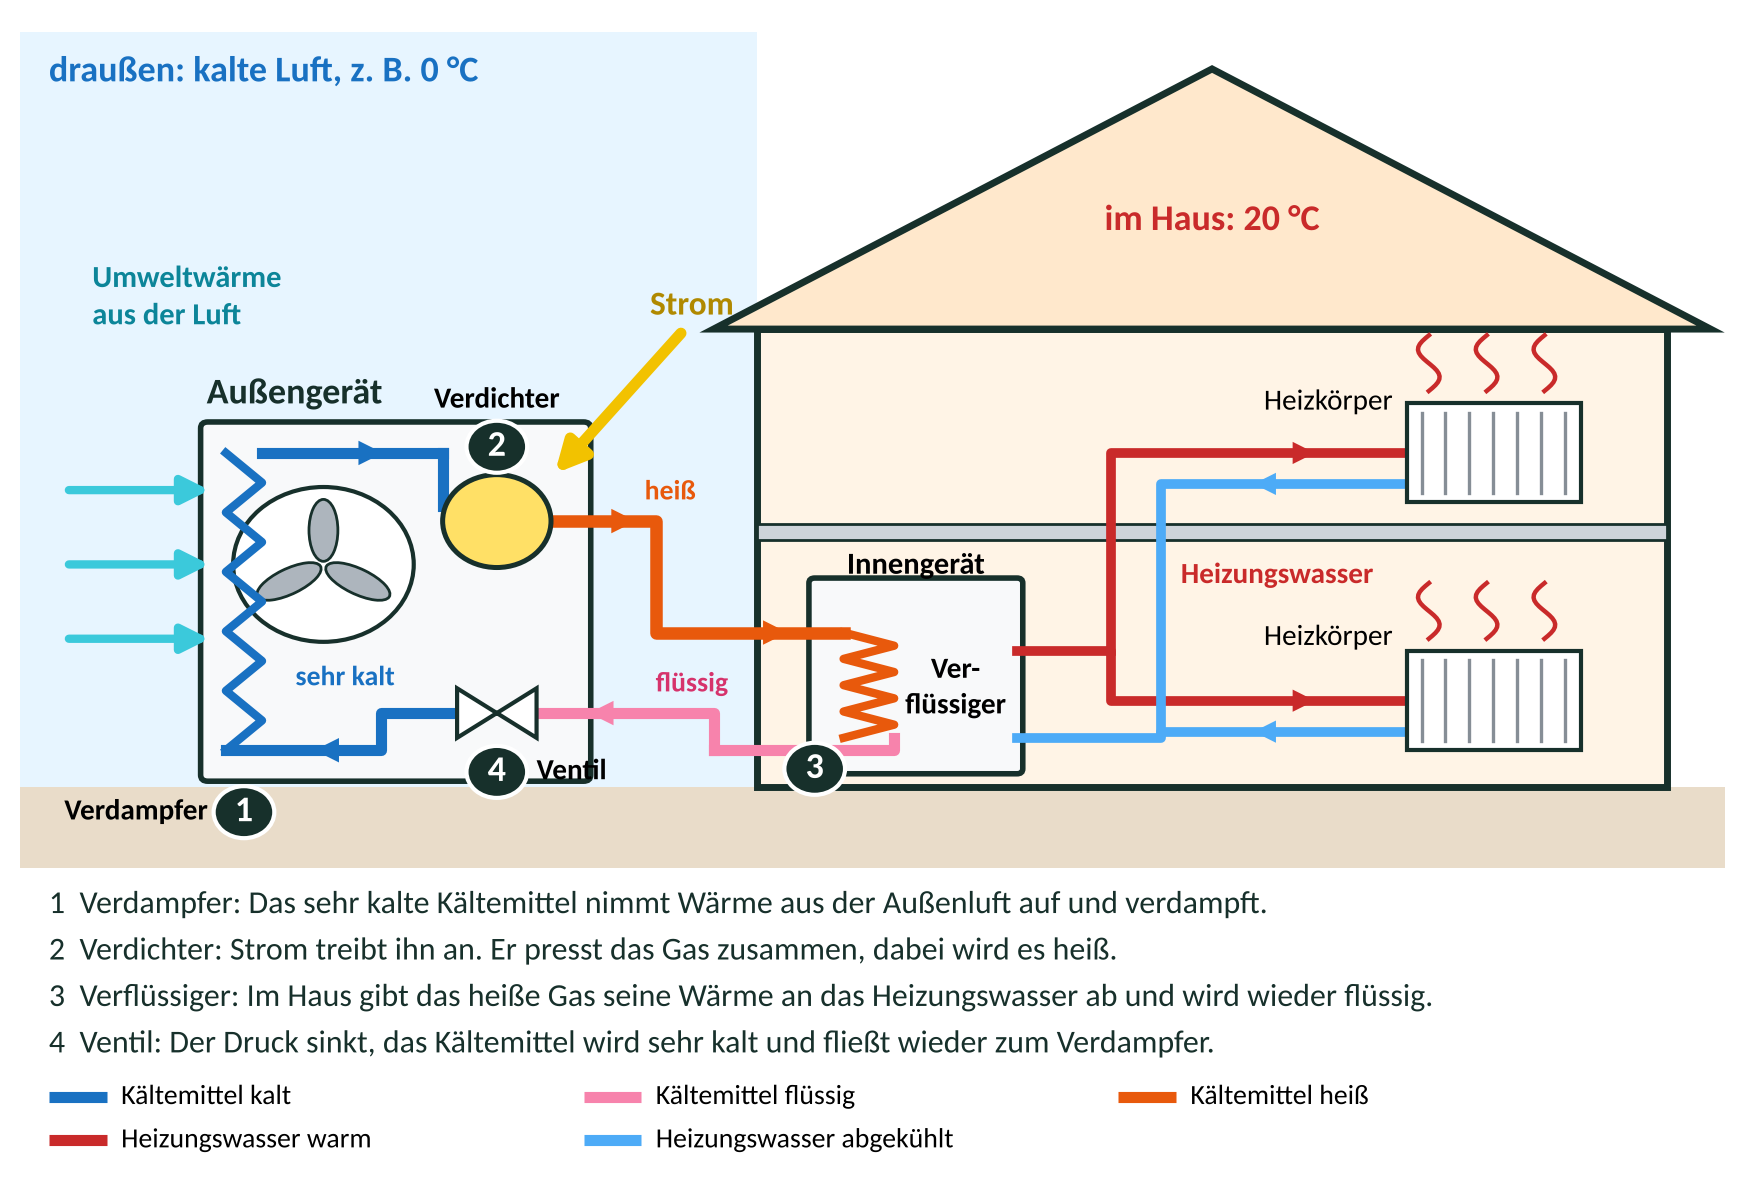
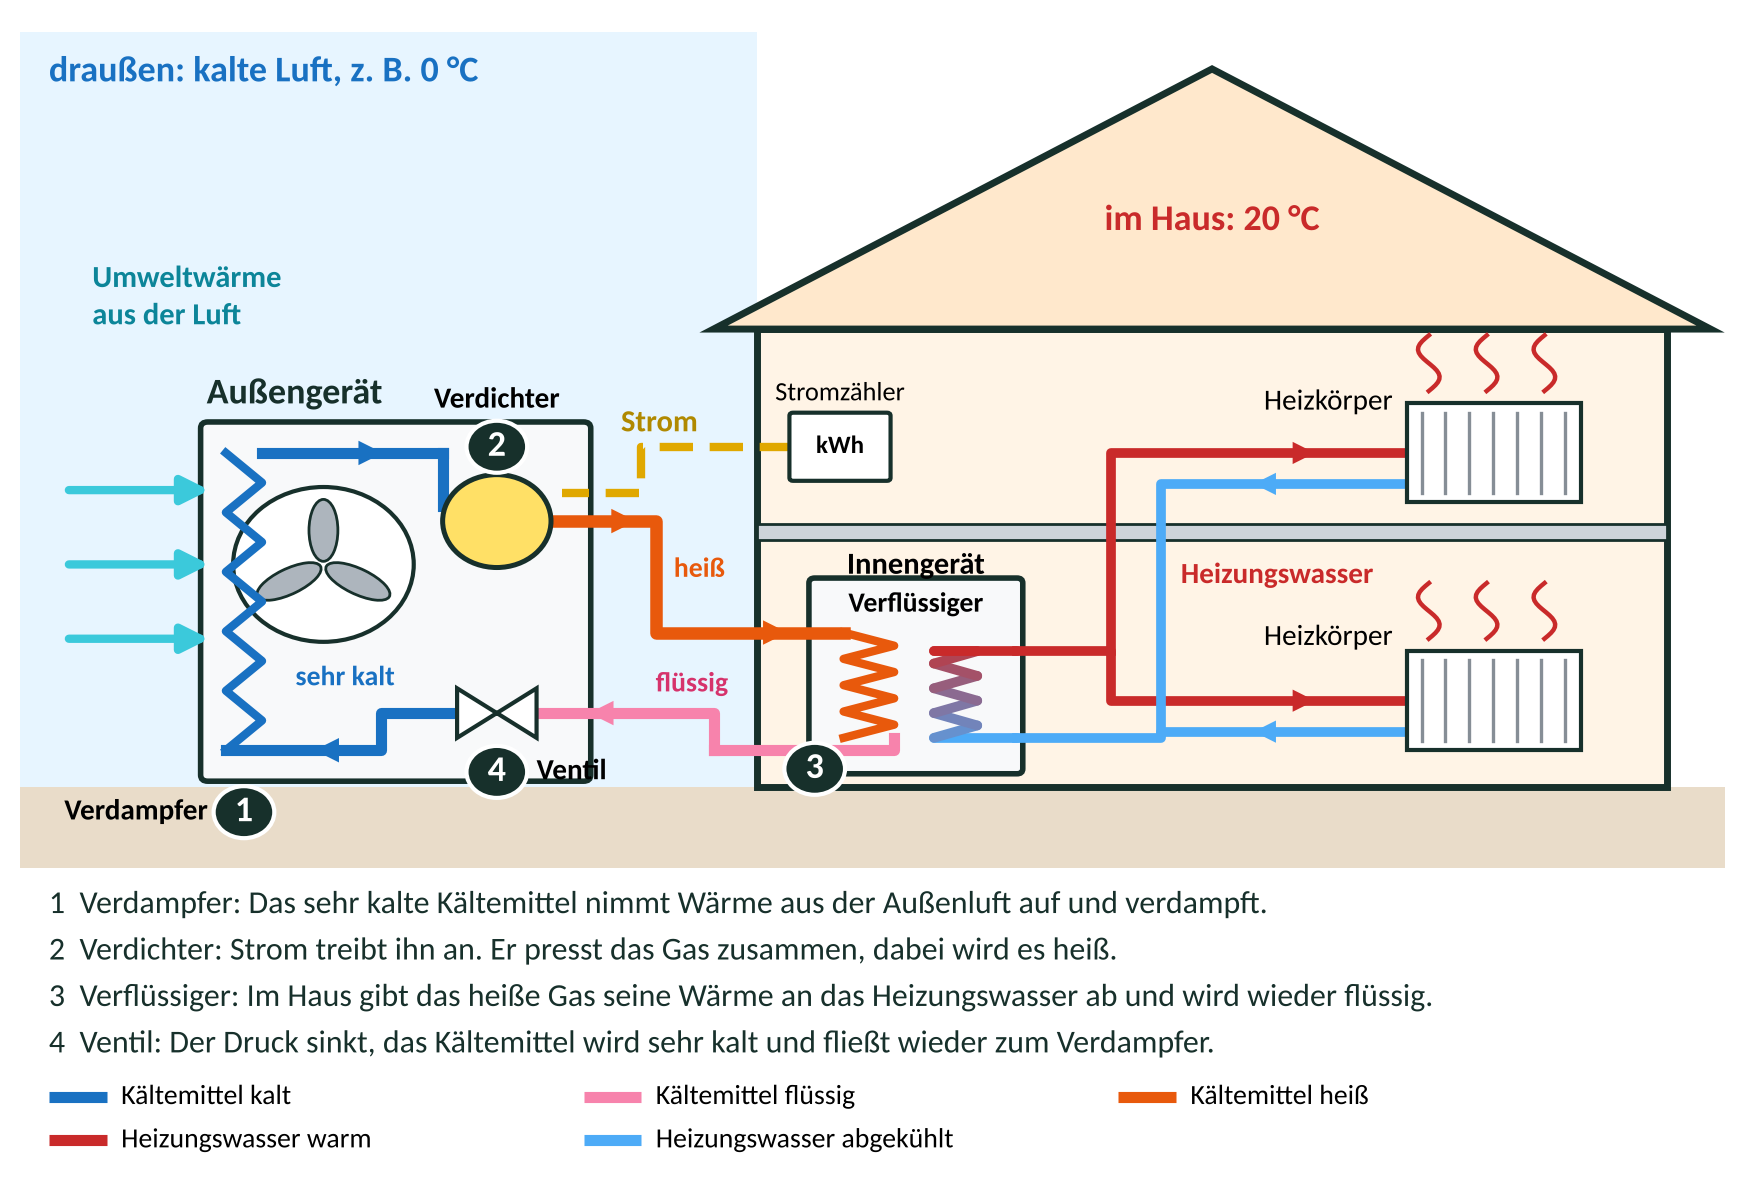
Wärmepumpen-Schema: Heizwasser im Verflüssiger, Strom vom Zähler
Claude-Session: https://claude.ai/code/session_01L2fqu6xzYuZaYVocFUn9bT

diff --git a/quelle/wp_haus.py b/quelle/wp_haus.py
@@ -30,8 +30,11 @@ def wp_haus():
     ax.add_patch(Circle((5.0,5.3),0.75,fc='#FFE066',ec=INK,lw=1.8,zorder=5)); badge(ax,5.0,6.5,2)
     
     # Strom
-    arrow(ax,(7.6,8.4),(5.75,6.0),color='#F2C200',lw=4,ms=22)
-    ax.text(7.7,8.5,'Strom',ha='center',va='bottom',fontsize=12,fontweight='bold',color='#B08900')
+    ax.add_patch(FancyBboxPatch((9.1,6.0),1.3,1.0,boxstyle='round,pad=0.05',fc='white',ec=INK,lw=1.5,zorder=5))
+    ax.text(9.75,6.5,'kWh',ha='center',va='center',fontsize=9,fontweight='bold',zorder=6)
+    ax.text(9.75,7.25,'Stromzähler',ha='center',fontsize=9.5)
+    ax.plot([9.1,7.0,7.0,5.9],[6.5,6.5,5.75,5.75],color='#E0A800',lw=3,zorder=2,ls=(0,(4,2)))
+    ax.text(7.25,6.75,'Strom',ha='center',fontsize=11,fontweight='bold',color='#B08900')
     # Ventil
     vx,vy=5.0,2.2
     ax.add_patch(Polygon([(vx-0.55,vy+0.4),(vx-0.55,vy-0.4),(vx+0.55,vy+0.4),(vx+0.55,vy-0.4)],closed=True,fc='white',ec=INK,lw=1.5,zorder=5)); badge(ax,vx,1.25,4)
@@ -49,7 +52,13 @@ def wp_haus():
     arrow(ax,(7.6,1.6),(6.9,1.6),color='#F783AC',lw=0,ms=0.1) 
     arrow(ax,(7.0,2.2),(6.2,2.2),color='#F783AC',lw=0,ms=22); arrow(ax,(3.2,1.6),(2.4,1.6),color=PC,lw=0,ms=22)
     arrow(ax,(2.6,6.4),(3.5,6.4),color=PC,lw=0,ms=22)
-    ax.text(7.4,5.65,'heiß',fontsize=10,color=PH,ha='center',fontweight='bold'); ax.text(2.9,2.65,'sehr kalt',fontsize=10,color=PC,ha='center',fontweight='bold'); ax.text(7.7,2.55,'flüssig',fontsize=10,color='#D6336C',ha='center',fontweight='bold')
+    ax.text(7.45,4.4,'heiß',fontsize=10,color=PH,ha='left',fontweight='bold'); ax.text(2.9,2.65,'sehr kalt',fontsize=10,color=PC,ha='center',fontweight='bold'); ax.text(7.7,2.55,'flüssig',fontsize=10,color='#D6336C',ha='center',fontweight='bold')
+    # Heizungswasser im Innengerät: nimmt Wärme vom Kältemittel auf (geschlossener Kreis)
+    from matplotlib.colors import to_rgb
+    c0,c1=np.array(to_rgb(WC)),np.array(to_rgb(WH))
+    pts=[(12.2,1.8),(11.05,1.8)]+[(11.05 if i%2==0 else 11.65, 1.8+i*0.2) for i in range(8)]+[(11.05,3.2),(12.2,3.2)]
+    for i in range(len(pts)-1):
+        t=i/(len(pts)-2); ax.plot([pts[i][0],pts[i+1][0]],[pts[i][1],pts[i+1][1]],color=tuple(c0*(1-t)+c1*t),lw=3.5,solid_capstyle='round',zorder=4)
     # Heizkreis
     def heizk(x,y):
         ax.add_patch(Rectangle((x,y),2.4,1.6,fc='white',ec=INK,lw=1.5,zorder=4))
@@ -67,7 +76,7 @@ def wp_haus():
     ax.text(1.0,0.6,'Verdampfer',ha='right',va='center',fontsize=10.5,fontweight='bold')
     ax.text(5.0,7.25,'Verdichter',ha='center',va='center',fontsize=10.5,fontweight='bold')
     ax.text(5.55,1.25,'Ventil',ha='left',va='center',fontsize=10.5,fontweight='bold')
-    ax.text(11.35,2.6,'Ver-\nflüssiger',ha='center',va='center',fontsize=10.5,fontweight='bold')
+    ax.text(10.8,3.95,'Verflüssiger',ha='center',va='center',fontsize=10,fontweight='bold')
     # Schritte
     st=['1  Verdampfer: Das sehr kalte Kältemittel nimmt Wärme aus der Außenluft auf und verdampft.',
         '2  Verdichter: Strom treibt ihn an. Er presst das Gas zusammen, dabei wird es heiß.',
